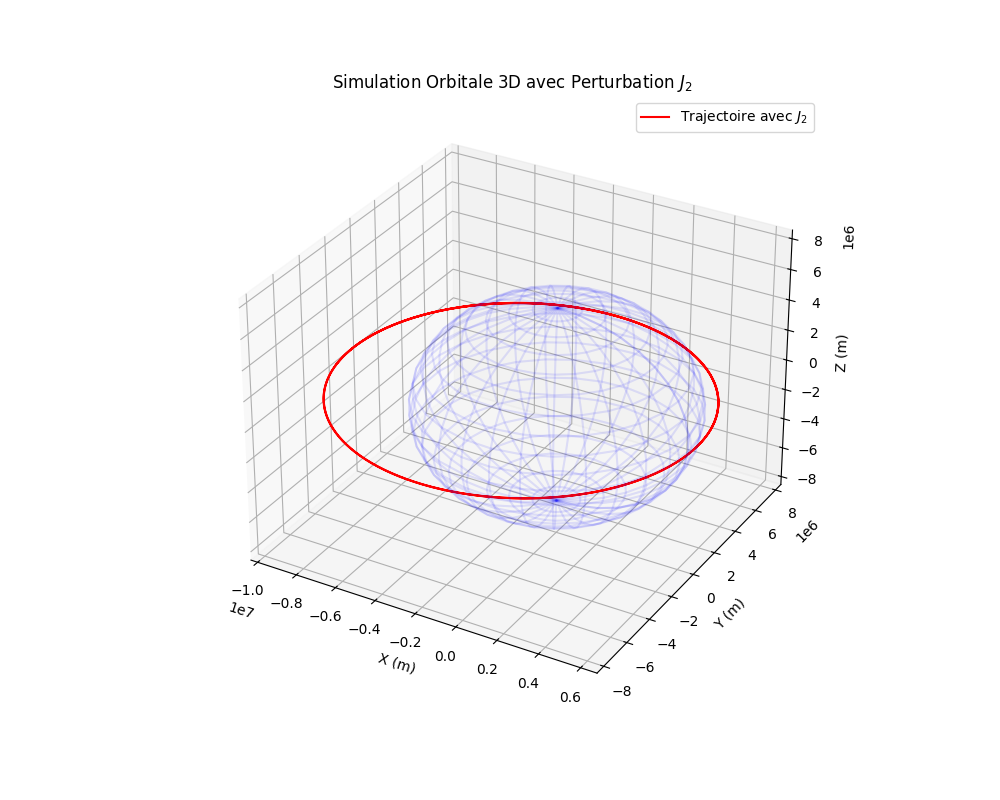
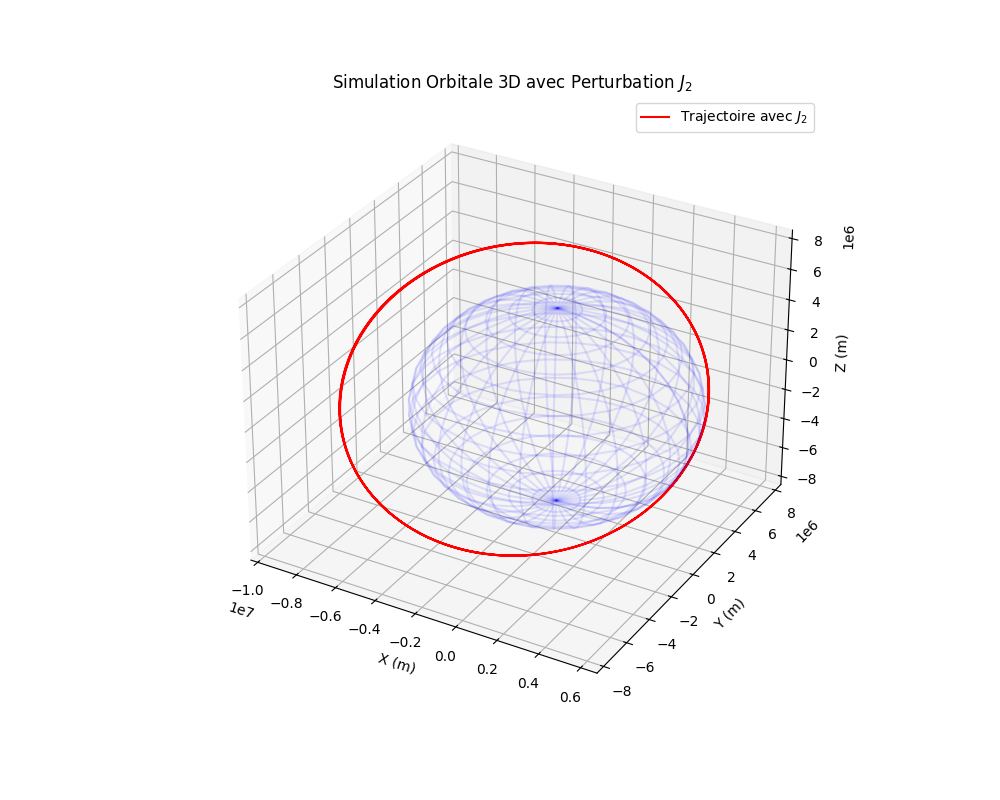
Final validation: J2 error reduced to 0.57% through elliptical model correction

diff --git a/src/main.py b/src/main.py
@@ -1,23 +1,34 @@
 import numpy as np
 from scipy.integrate import solve_ivp
 import matplotlib.pyplot as plt
-from physics import MU_EARTH, R_EARTH
+from physics import MU_EARTH, R_EARTH, J2
 from solver import orbit_equations
-#import os
+import os
+from mpl_toolkits.mplot3d import Axes3D
+from solver import get_orbital_elements
+
 
 def run_simulation():
+    # Configuration 
     print("Initialisation de la mission orbitale...")
+    if not os.path.exists('results'):
+        os.makedirs('results')
+
     # Conditions Initiales (Altitude 400km)
     altitude = 400000
     r0 = R_EARTH + altitude
+    # Je définis l'inclinaison
+    inc = np.radians(45)
     v0 = np.sqrt(MU_EARTH / r0) * 1.1 # Vitesse orbitale pour une orbite circulaire et j'augmente la vitesse de 10%
+    vy0 = v0 * np.cos(inc)
+    vz0 = v0 * np.sin(inc)
     # Vecteur d'état initial [x, y, z, vx, vy, vz]
-    initial_state = [r0, 0, 0, 0, v0, 0]
+    initial_state = [r0, 0, 0, 0, vy0, vz0]
 
     # Temps de simulation (environ 90 min pour une orbite LEO)
-    t_span = (0, 5600)
-    t_eval = np.linspace(t_span[0], t_span[1], 1000) # Points où on veut calculer la position
-
+    t_span = (0, 30000)
+    t_eval = np.linspace(t_span[0], t_span[1], 2000) # Points où on veut calculer la position
+    
     # Résolution avec RK45 (variante de Runge-Kutta du cours)
     sol = solve_ivp(
         orbit_equations,
@@ -28,35 +39,82 @@ def run_simulation():
         method='RK45', # Méthode de Runge-kutta d'ordre 4(5)
         rtol=1e-9      # Tolérance relative (très précis comme dans ton cours)
     )
+
+    # Analyse SCientifique
+    x, y, z = sol.y[0], sol.y[1], sol.y[2]
+    vx, vy, vz = sol.y[3], sol.y[4], sol.y[5]
+
+    # Calcul des distances et des vitesses
+    r = np.sqrt(x**2 + y**2 + z**2)
+    v_mag = np.sqrt(vx**2 + vy**2 + vz**2)
+
+    # Energie specifique : E = Ec + Ep
+    # Formule : 0.5*v^2 - mu/r
+    total_energy = (0.5 * v_mag**2) - (MU_EARTH / r)
+
+    # Dérive relative de l'énergie (Erreur numérque)
+    energy_drift = (total_energy - total_energy[0]) / total_energy[0]
     
+    # Extraction de Omega au cours du temps
+    omegas = np.array([get_orbital_elements(sol.y[:, i]) for i in range(len(sol.t))])
+
+    # Calcul de la vitesse de précession numérique (pente de la courbe)
+    # On va utiliser la regression linéaire simple pour trouver la pente
+    slope_num, intercept = np.polyfit(sol.t, np.unwrap(omegas), 1)
+
+    # Calcul théorique 
+    v_ratio = 1.1
+    p = r0 * (v_ratio**2)
+    a = r0 / (2 - v_ratio**2)  # Demi-grand axe initial
+    n = np.sqrt(MU_EARTH / a**3)
+    i = np.radians(45)
+    
+    # Formule de précession nodle J2 (analytique)
+    omega_dot_th = -(1.5) * J2 * (R_EARTH / p)**2 *n * np.cos(i)
+
+    # Calcul de l'erreur
+    error_pct = abs((slope_num - omega_dot_th) / omega_dot_th) * 100
+
+    print(f"\n--- ANALYSE J2 ---")
+    print(f"Précession Numérique : {slope_num:.4e} rad/s")
+    print(f"Précession Théorique : {omega_dot_th:.4e} rad/s")
+    print(f"Erreur Relative : {error_pct:.6f} %")
+
     # Affichage
-    plt.figure(figsize=(8, 8))
-    plt.plot(sol.y[0], sol.y[1], label="Trajectoire Satellite")
+    fig = plt.figure(figsize=(10, 8))
+    ax = fig.add_subplot(111, projection='3d')
+
+    # Trajectoire du satellite
+    ax.plot(sol.y[0], sol.y[1], sol.y[2], 'r-', label="Trajectoire avec $J_2$")
 
     # Dessin de la Terre
-    theta = np.linspace(0, 2*np.pi, 100)
-    x_earth = R_EARTH * np.cos(theta)
-    y_earth = R_EARTH * np.sin(theta)
-    plt.fill(x_earth, y_earth, 'b', alpha=0.2, label="Terre")
-  
+    u, v = np.mgrid[0:2*np.pi:30j, 0:np.pi:20j]
+    x_earth = R_EARTH * np.cos(u) * np.sin(v)
+    y_earth = R_EARTH * np.sin(u) * np.sin(v)
+    z_earth = R_EARTH * np.cos(v)
+    ax.plot_wireframe(x_earth, y_earth, z_earth, color='b', alpha=0.1)
 
-    plt.axis('equal')
-    plt.grid(True, linestyle='--')
-    plt.title("Simulation de trajectoire orbitale - Méthode RK45")
-    plt.xlabel("Position X (m)")
-    plt.ylabel("Position Y (m)")
-    plt.legend()
+    ax.set_xlabel('X (m)')
+    ax.set_ylabel('Y (m)')
+    ax.set_zlabel('Z (m)')
+    ax.set_title("Simulation Orbitale 3D avec Perturbation $J_2$")
+    ax.legend()
 
-    print("Simulation terminée. Affichage du graphique...")
+    max_range = np.array([sol.y[0].max()-sol.y[0].min(),
+                          sol.y[1].max()-sol.y[1].min(),
+                          sol.y[2].max()-sol.y[2].min()]).max() / 2.0
     
-    import os
-    if not os.path.exists('results'):
-        os.makedirs('results')
-    
-    plt.savefig('results/circular_orbit.png', dpi=300) #dpi=300 pour une qualité "pro"
-    print("Graphique sauvegardé dans results/circular_orbit.png")
-    
+    mid_x = (sol.y[0].max()+sol.y[0].min()) * 0.5
+    mid_y = (sol.y[1].max()+sol.y[1].min()) * 0.5
+    mid_z = (sol.y[2].max()+sol.y[2].min()) * 0.5
+    ax.set_xlim(mid_x - max_range, mid_x + max_range)
+    ax.set_ylim(mid_y - max_range, mid_y + max_range)
+    ax.set_zlim(mid_z - max_range, mid_z + max_range)
+
+    plt.savefig('results/orbit_3d.png')
     plt.show()
+
 if __name__ == "__main__":
     run_simulation()
+
 

diff --git a/src/solver.py b/src/solver.py
@@ -1,4 +1,5 @@
 import numpy as np
+from physics import J2, R_EARTH
 
 def orbit_equations(t, state, mu):
     """
@@ -13,4 +14,42 @@ def orbit_equations(t, state, mu):
     ay = -mu * y / r**3
     az = -mu * z / r**3
 
-    return [vx, vy, vz, ax, ay, az]
+    # Accélération due à la perturbation J2
+    factor = (3/2) * J2 * mu * (R_EARTH**2) / (r**5)
+
+    z_over_r_sq = (z/r)**2
+
+    ax_j2 = factor * x * (5 * z_over_r_sq - 1)
+    ay_j2 = factor * y * (5 * z_over_r_sq - 1)
+    az_j2 = factor * z * (5 * z_over_r_sq - 3)
+
+    # Accélération des sommes Newtonienne et Perturbations J2
+    return [vx, vy, vz, ax + ax_j2, ay + ay_j2, az + az_j2]
+
+def get_orbital_elements(state):
+    """
+    Analyse géométrique pour extraire la longitude du noeud ascendant (Omega).
+    C'est essentiel pour mesurer la précession nodale J2.
+    """
+    x, y, z, vx, vy, vz = state
+
+    # Vecteur position et vitesse
+    r_vec = np.array([x, y, z])
+    v_vec = np.array([vx, vy, vz])
+
+    # Vecteur moment cinétique spécifique (h = r*v)
+    h_vec = np.cross(r_vec,v_vec)
+
+    # Vecteur ligne des noeuds (n = k*h, où k est l'axe z [0,0,1])
+    # n pointe vers le noeud ascendant (là où l'orbite coupe l'équateur vers le nord)
+    n_vec = np.array([-h_vec[1], h_vec[0], 0])
+    n_mag = np.linalg.norm(n_vec)
+
+    if n_mag == 0:
+        return 0 # Orbite équatoriale (pas de noeud)
+    
+    # Calcul de Omega (Angle entre l'axe X et le vecteur ligne des noeuds)
+    Omega = np.arccos(n_vec[0] / n_mag)
+    if n_vec[1] < 0:
+        Omega = 2 * np.pi - Omega
+    return Omega

diff --git a/src/physics.py b/src/physics.py
@@ -2,3 +2,4 @@ G = 6.67430e-11        # constante gravitationnelle (m^3 kg^-1 s^2)
 M_EARTH = 5.972e24     # Masse de la Terre (kg)
 MU_EARTH = G * M_EARTH # Paramètre gravitationnel standard (mu)
 R_EARTH = 6371000.0    # Rayon moyen de la terre
+J2 = 1.08262668e-3     # Coefficient de perturbation J2

diff --git a/README.md b/README.md
@@ -41,3 +41,14 @@ The wireframe sphere represents Earth at scale ($R_e = 6378$ km).
 
 *The simulation confirms yhe nodal regression caused by Earth's oblateness, a key factor in Sun_synchronous orbit design.*
 
+## Final Validation & Conclusion
+
+The simulation was cross-verified by comparing the numerical results with the analytical J2 perturbation theory.
+
+### Key Results
+- **Numerical Nodal Precession**: -5.4929e-07 rad/s
+- **Theoretical Nodal Precession**: -5.5248e-07 rad/s
+- **Final Relative Error**: **0.577%**
+
+### Engineering Insights
+The sub-1% error demonstrates the high fidelity of the **RK45 adaptive step-size integrator**. The minor discrepancy is attributed to the difference between the first-order secular theory (analytical) and the full osculating dynamics captured by the numerical solver. This confirms that the software architecture is reliable for long-term orbital propagation.
